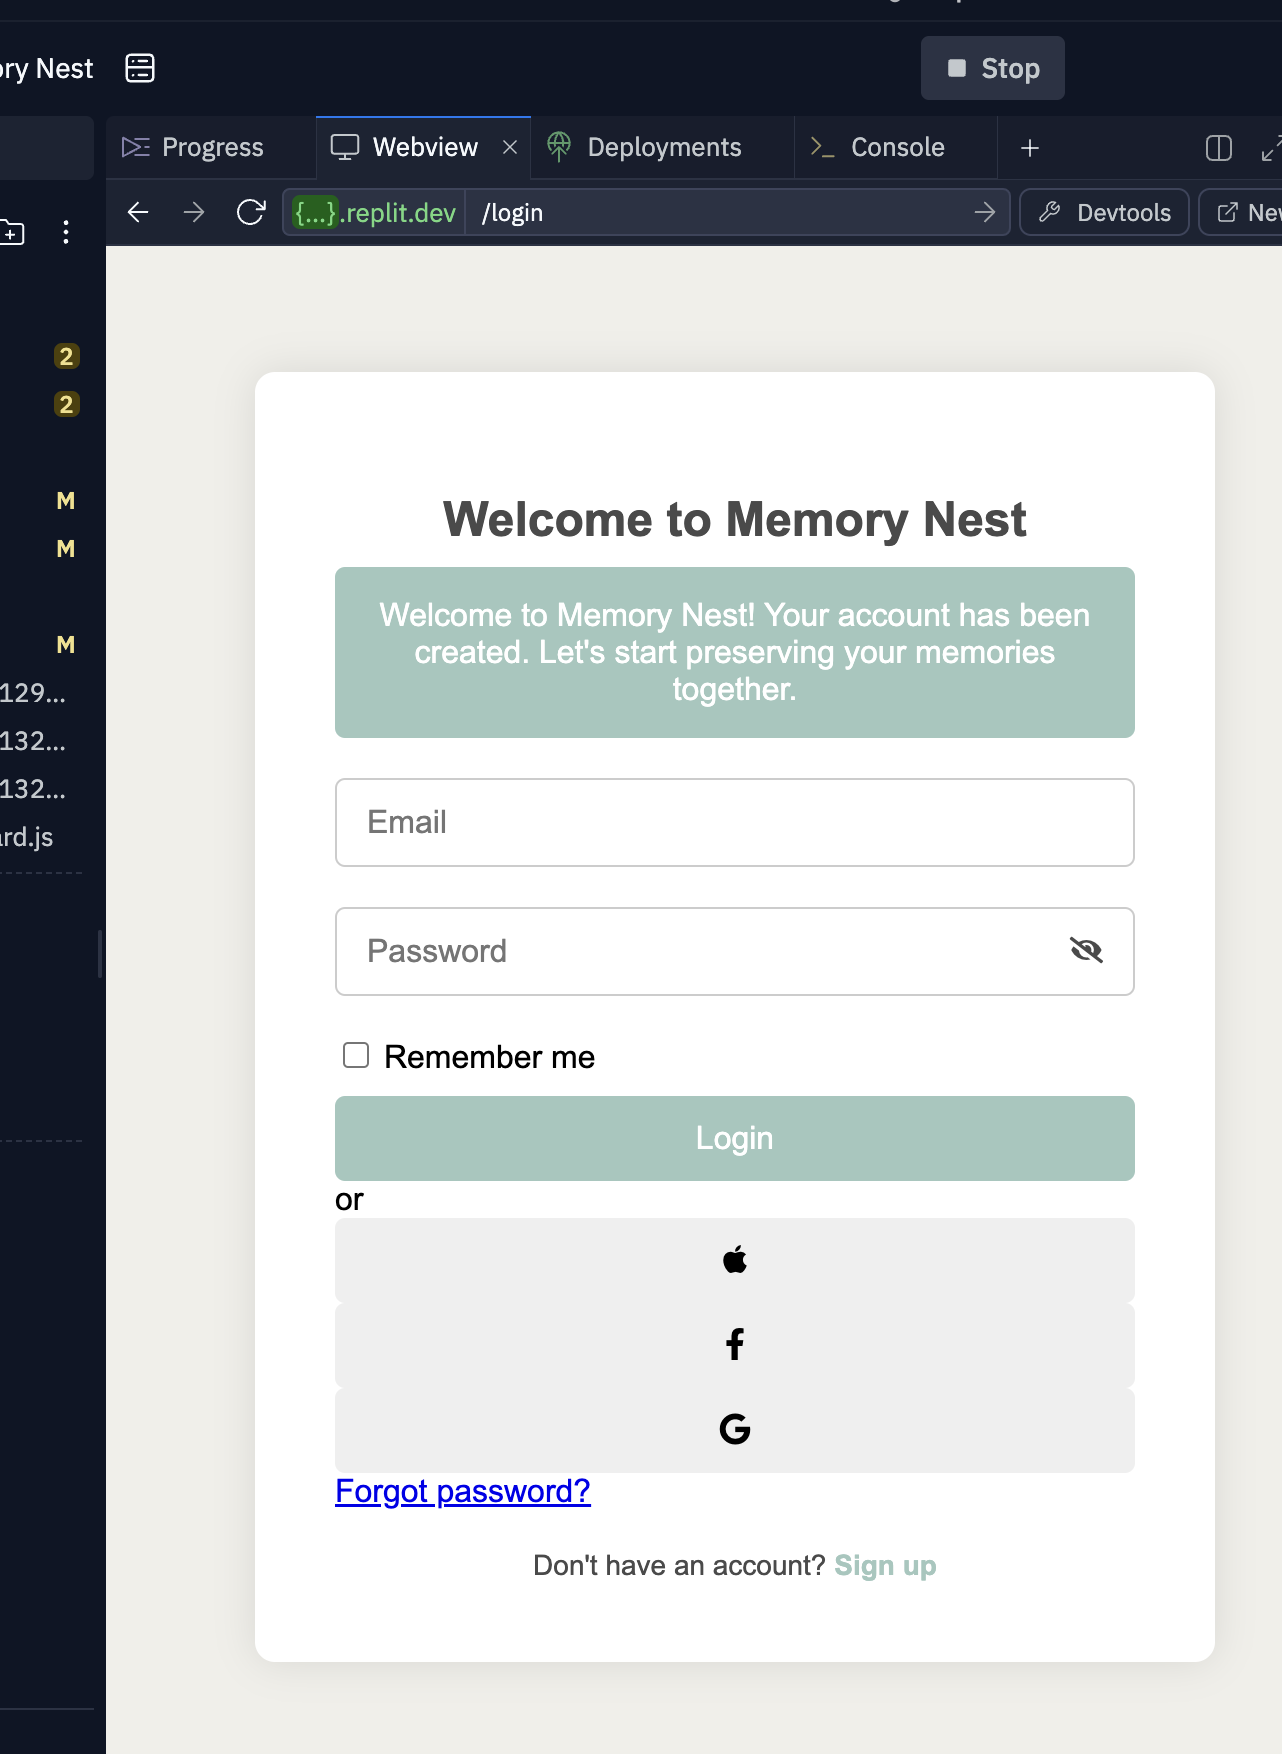
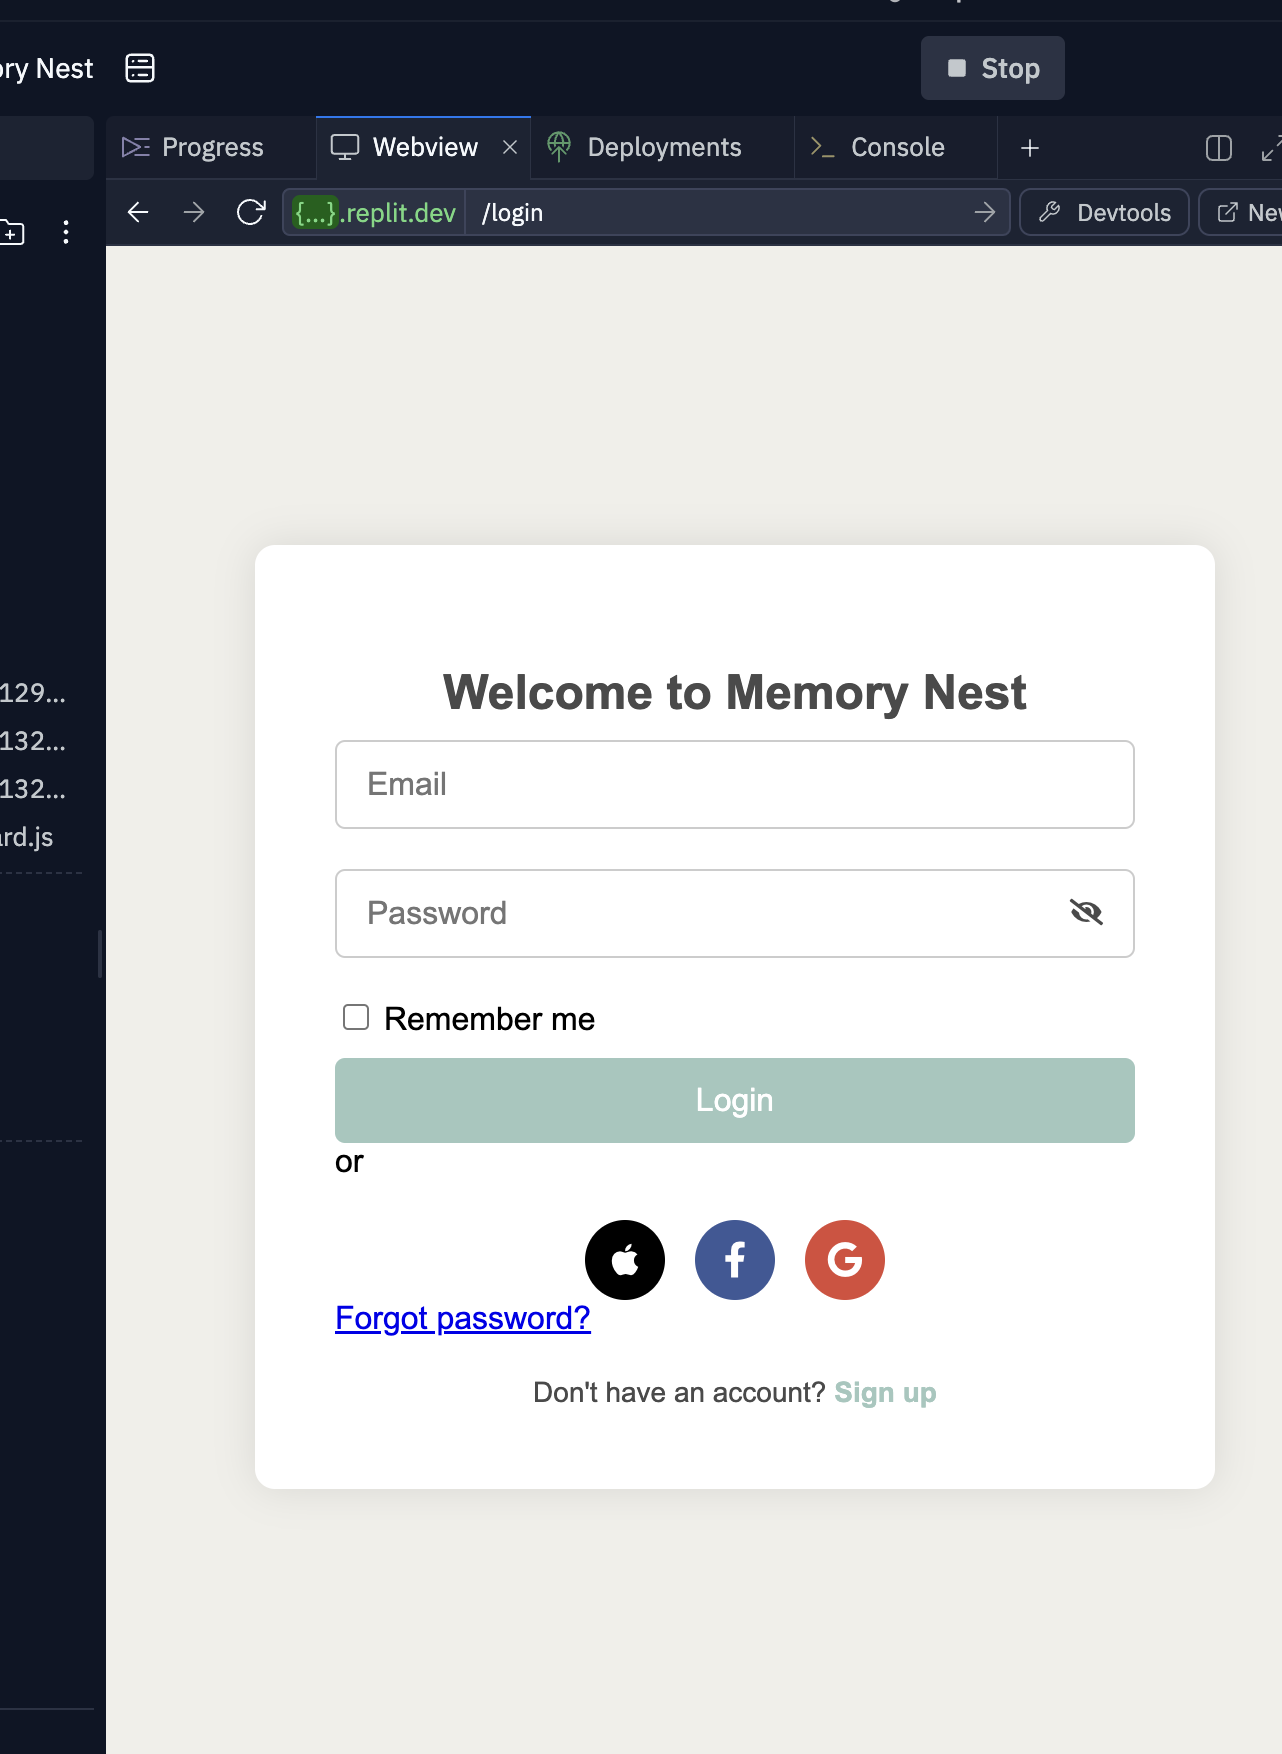
Agent step completed: Improve login page layout: center 'or' with divider, adjust 'Forgot password' link

diff --git a/static/css/style.css b/static/css/style.css
@@ -22,15 +22,8 @@ body {
 h2 {
     text-align: center;
     color: #4A4A4A;
-    margin-bottom: 10px;
-    font-size: 24px;
-}
-
-.subheading {
-    text-align: center;
-    color: #777;
     margin-bottom: 30px;
-    font-size: 16px;
+    font-size: 24px;
 }
 
 /* Input fields and login button */
@@ -59,9 +52,21 @@ h2 {
     color: #4A4A4A;
 }
 
-.login-button, .social-login {
+.remember-me {
+    display: flex;
+    align-items: center;
+    margin-bottom: 20px;
+}
+
+.remember-me input[type="checkbox"] {
+    margin-right: 10px;
+}
+
+.login-button {
     width: 100%;
     padding: 12px;
+    background-color: #A2C7BE;
+    color: white;
     border: none;
     border-radius: 5px;
     font-size: 16px;
@@ -69,19 +74,28 @@ h2 {
     transition: background-color 0.3s;
 }
 
-.login-button {
-    background-color: #A2C7BE;
-    color: white;
-    margin-top: 10px;
-}
-
 .login-button:hover {
     background-color: #8fb3a9;
 }
 
-.login-button:disabled {
-    background-color: #cccccc;
-    cursor: not-allowed;
+/* Separator */
+.separator {
+    display: flex;
+    align-items: center;
+    text-align: center;
+    margin: 20px 0;
+}
+
+.separator hr {
+    flex: 1;
+    border: none;
+    border-top: 1px solid #ccc;
+}
+
+.separator span {
+    padding: 0 10px;
+    color: #777;
+    font-size: 14px;
 }
 
 /* Social login buttons */
@@ -89,7 +103,7 @@ h2 {
     display: flex;
     justify-content: center;
     gap: 15px;
-    margin-top: 20px;
+    margin-bottom: 20px;
 }
 
 .social-login {
@@ -101,6 +115,8 @@ h2 {
     align-items: center;
     font-size: 18px;
     color: white;
+    border: none;
+    cursor: pointer;
     transition: background-color 0.3s;
 }
 
@@ -116,43 +132,35 @@ h2 {
     background-color: #db4a39;
 }
 
-/* Terms and Conditions */
-.terms-container {
-    margin-bottom: 20px;
+/* Additional links */
+.additional-links {
+    text-align: center;
 }
 
-.terms-container h3 {
-    color: #4A4A4A;
+.forgot-password {
+    color: #A2C7BE;
+    text-decoration: none;
+    font-size: 14px;
+    display: inline-block;
     margin-bottom: 10px;
 }
 
-.terms-iframe {
-    width: 100%;
-    height: 200px;
-    border: 1px solid #A2C7BE;
-    border-radius: 10px;
-    overflow: hidden;
-}
-
-.terms-content {
-    height: 100%;
-    overflow-y: scroll;
-    padding: 10px;
-    font-size: 14px;
+.signup-link {
     color: #4A4A4A;
+    font-size: 14px;
 }
 
-.checkbox-group {
-    display: flex;
-    align-items: center;
-    margin-top: 10px;
+.signup-link a {
+    color: #A2C7BE;
+    text-decoration: none;
+    font-weight: bold;
 }
 
-.checkbox-group input[type="checkbox"] {
-    margin-right: 10px;
+.signup-link a:hover {
+    text-decoration: underline;
 }
 
-/* Additional styles */
+/* Flash messages */
 .flash-messages {
     list-style-type: none;
     padding: 0;
@@ -176,19 +184,5 @@ h2 {
     text-align: center;
 }
 
-.signup-link {
-    text-align: center;
-    margin-top: 20px;
-    color: #4A4A4A;
-    font-size: 14px;
-}
-
-.signup-link a {
-    color: #A2C7BE;
-    text-decoration: none;
-    font-weight: bold;
-}
-
-.signup-link a:hover {
-    text-decoration: underline;
-}
+/* Existing styles for sign-up page */
+/* ... (keep the existing styles for the sign-up page) ... */

diff --git a/templates/login.html b/templates/login.html
@@ -34,7 +34,9 @@
             <button type="submit" class="login-button">Login</button>
         </form>
         <div class="separator">
+            <hr>
             <span>or</span>
+            <hr>
         </div>
         <div class="social-buttons">
             <button class="social-login apple-login">
@@ -47,9 +49,11 @@
                 <i class="fab fa-google"></i>
             </button>
         </div>
-        <a href="#" class="forgot-password">Forgot password?</a>
-        <div class="signup-link">
-            Don't have an account? <a href="{{ url_for('signup') }}">Sign up</a>
+        <div class="additional-links">
+            <a href="#" class="forgot-password">Forgot password?</a>
+            <div class="signup-link">
+                Don't have an account? <a href="{{ url_for('signup') }}">Sign up</a>
+            </div>
         </div>
     </div>
     <script src="{{ url_for('static', filename='js/login.js') }}"></script>
